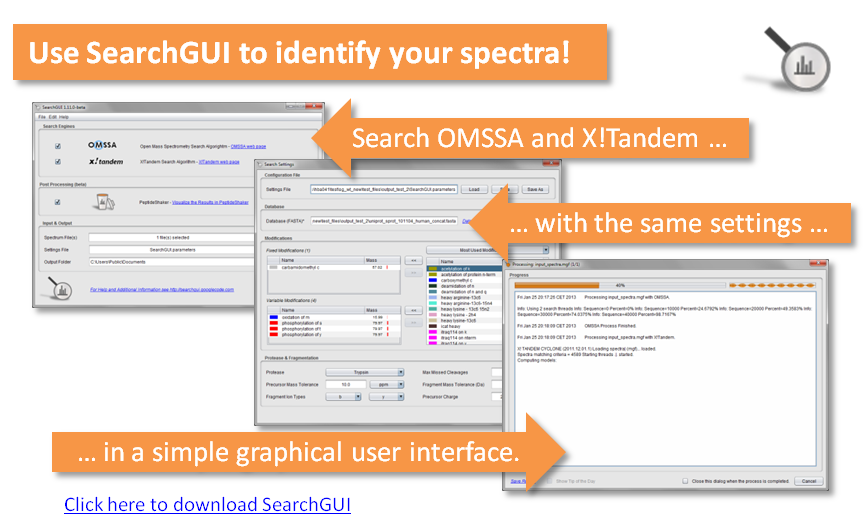
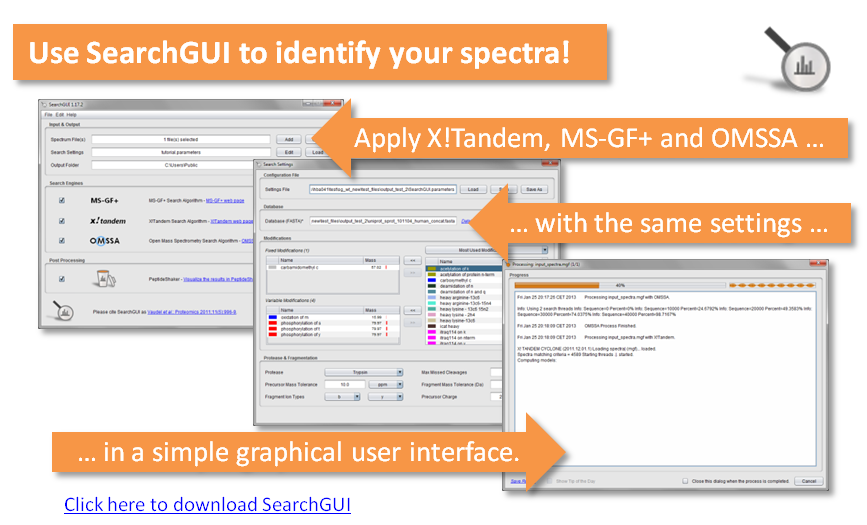
The first number in the Spectrum IDs tab border title is now the number of validated PSMs and not the number of PSMs. Updated the getting started slides to mention MS-GF+ when talking about SearchGUI.

diff --git a/src/main/java/eu/isas/peptideshaker/gui/tabpanels/SpectrumIdentificationPanel.java b/src/main/java/eu/isas/peptideshaker/gui/tabpanels/SpectrumIdentificationPanel.java
@@ -190,6 +190,11 @@ public class SpectrumIdentificationPanel extends javax.swing.JPanel {
      * The search engine color map.
      */
     private HashMap<Integer, java.awt.Color> searchEnginesColorMap;
+    /**
+     * The number of validated PSMs per mgf file. // @TODO: create this map when
+     * loading the data...
+     */
+    private HashMap<String, Integer> numberOfValidatedPsmsMap;
 
     /**
      * Create a new SpectrumIdentificationPanel.
@@ -2156,8 +2161,8 @@ public class SpectrumIdentificationPanel extends javax.swing.JPanel {
 
     /**
      * Shows a tooltip when the mouse is over the spectrum selection link.
-     * 
-     * @param evt 
+     *
+     * @param evt
      */
     private void spectrumSelectionPanelMouseMoved(java.awt.event.MouseEvent evt) {//GEN-FIRST:event_spectrumSelectionPanelMouseMoved
         if (evt.getX() > 180 && evt.getX() < 400 && evt.getY() < 25) {
@@ -2298,7 +2303,7 @@ public class SpectrumIdentificationPanel extends javax.swing.JPanel {
 
                     // order the advocates to have the same order is in the overview plots
                     Collections.sort(advocatesUsed);
-                    
+
                     // update the advocates color legend
                     ArrayList<Advocate> usedAdvocatedAndPeptideShaker = new ArrayList<Advocate>();
                     usedAdvocatedAndPeptideShaker.addAll(advocatesUsed);
@@ -2306,8 +2311,8 @@ public class SpectrumIdentificationPanel extends javax.swing.JPanel {
                     String colorLegend = "<html>";
                     for (Advocate tempAdvocate : usedAdvocatedAndPeptideShaker) {
                         colorLegend += "<font color=\"rgb(" + searchEnginesColorMap.get(tempAdvocate.getIndex()).getRed() + ","
-                                + searchEnginesColorMap.get(tempAdvocate.getIndex()).getGreen()+ ","
-                                + searchEnginesColorMap.get(tempAdvocate.getIndex()).getBlue()+ ")\">&#9632;</font> " 
+                                + searchEnginesColorMap.get(tempAdvocate.getIndex()).getGreen() + ","
+                                + searchEnginesColorMap.get(tempAdvocate.getIndex()).getBlue() + ")\">&#9632;</font> "
                                 + tempAdvocate.getName() + " &nbsp;";
                     }
                     colorLegend += "</html>";
@@ -2333,8 +2338,11 @@ public class SpectrumIdentificationPanel extends javax.swing.JPanel {
                     int fileCounter = 1;
                     PSParameter probabilities = new PSParameter();
 
+                    numberOfValidatedPsmsMap = new HashMap<String, Integer>();
+
                     for (String fileName : filesArray) {
 
+                        int numberOfValidatedPsms = 0;
                         totalNumberOfSpectra += spectrumFactory.getNSpectra(fileName);
 
                         progressDialog.setTitle("Loading Spectrum Information. Please Wait... (" + fileCounter + "/" + filesArray.length + ")");
@@ -2355,6 +2363,7 @@ public class SpectrumIdentificationPanel extends javax.swing.JPanel {
                             if (probabilities.getMatchValidationLevel().isValidated()) {
 
                                 totalPeptideShakerIds++;
+                                numberOfValidatedPsms++;
 
                                 for (Advocate tempAdvocate : advocatesUsed) {
                                     if (spectrumMatch.getFirstHit(tempAdvocate.getIndex()) != null) {
@@ -2417,6 +2426,8 @@ public class SpectrumIdentificationPanel extends javax.swing.JPanel {
 
                             progressDialog.increasePrimaryProgressCounter();
                         }
+
+                        numberOfValidatedPsmsMap.put(fileName, numberOfValidatedPsms);
                     }
 
                     if (!progressDialog.isRunCanceled()) {
@@ -2446,7 +2457,6 @@ public class SpectrumIdentificationPanel extends javax.swing.JPanel {
                         intensitySlider.setToolTipText("Annotation Level: " + intensitySlider.getValue() + "%");
 
                         //formComponentResized(null);
-
                         // enable the contextual export options
                         exportIdPerformancePerformanceJButton.setEnabled(true);
                         exportSpectrumSelectionJButton.setEnabled(true);
@@ -2631,9 +2641,8 @@ public class SpectrumIdentificationPanel extends javax.swing.JPanel {
                 }
                 progressDialog.setPrimaryProgressCounterIndeterminate(true);
                 if (!progressDialog.isRunCanceled()) {
-                    // @TODO: show the number of validated psms in the file instead of the number of ids in the file
                     ((TitledBorder) spectrumSelectionPanel.getBorder()).setTitle("<html>" + PeptideShakerGUI.TITLED_BORDER_HORIZONTAL_PADDING_HTML + "Spectrum Selection ("
-                            + (identification.getSpectrumIdentification(fileSelected).size()) + "/" + spectrumFactory.getNSpectra(fileSelected) + " - "
+                            + numberOfValidatedPsmsMap.get(fileSelected) + "/" + spectrumFactory.getNSpectra(fileSelected) + " - "
                             + "<a href=\"dummy\">" + fileSelected + "</a>)"
                             + PeptideShakerGUI.TITLED_BORDER_HORIZONTAL_PADDING_HTML + "</html>");
                     spectrumSelectionPanel.repaint();
@@ -3352,7 +3361,7 @@ public class SpectrumIdentificationPanel extends javax.swing.JPanel {
 
     /**
      * Update the Venn diagram.
-     * 
+     *
      * @param dataA the data in group A
      * @param dataB the data in group B
      * @param dataC the data in group C
@@ -3368,8 +3377,8 @@ public class SpectrumIdentificationPanel extends javax.swing.JPanel {
                     dataAB, dataAC, dataBC, dataABC, vennDiagramAdvocates.get(0).getName(), vennDiagramAdvocates.get(1).getName(), vennDiagramAdvocates.get(2).getName(),
                     advocateVennColors.get(vennDiagramAdvocates.get(0)), advocateVennColors.get(vennDiagramAdvocates.get(1)), advocateVennColors.get(vennDiagramAdvocates.get(2)));
         } else if (vennDiagramAdvocates.size() == 2) {
-            updateTwoWayVennDiagram(vennDiagramButton, dataA, dataB, dataAB, 
-                    vennDiagramAdvocates.get(0).getName(), vennDiagramAdvocates.get(1).getName(), 
+            updateTwoWayVennDiagram(vennDiagramButton, dataA, dataB, dataAB,
+                    vennDiagramAdvocates.get(0).getName(), vennDiagramAdvocates.get(1).getName(),
                     advocateVennColors.get(vennDiagramAdvocates.get(0)), advocateVennColors.get(vennDiagramAdvocates.get(1)));
         } else {
             vennDiagramButton.setText(null);
